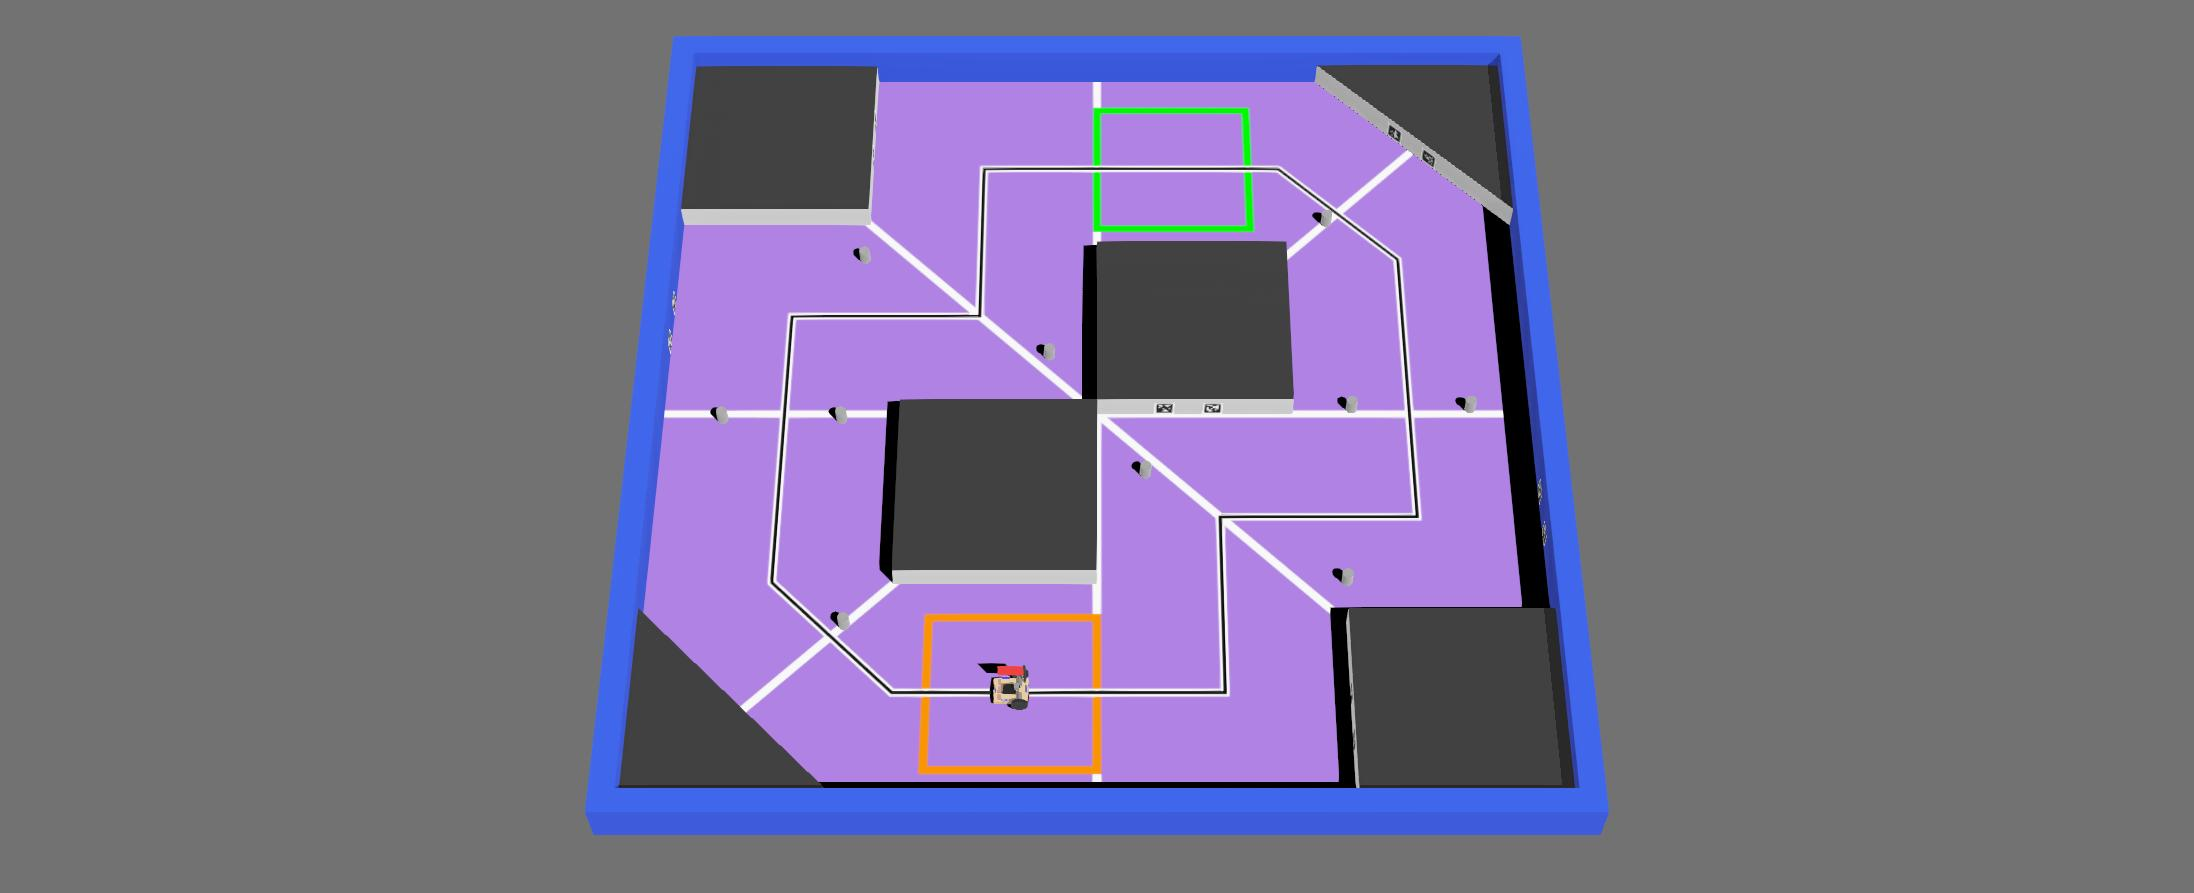
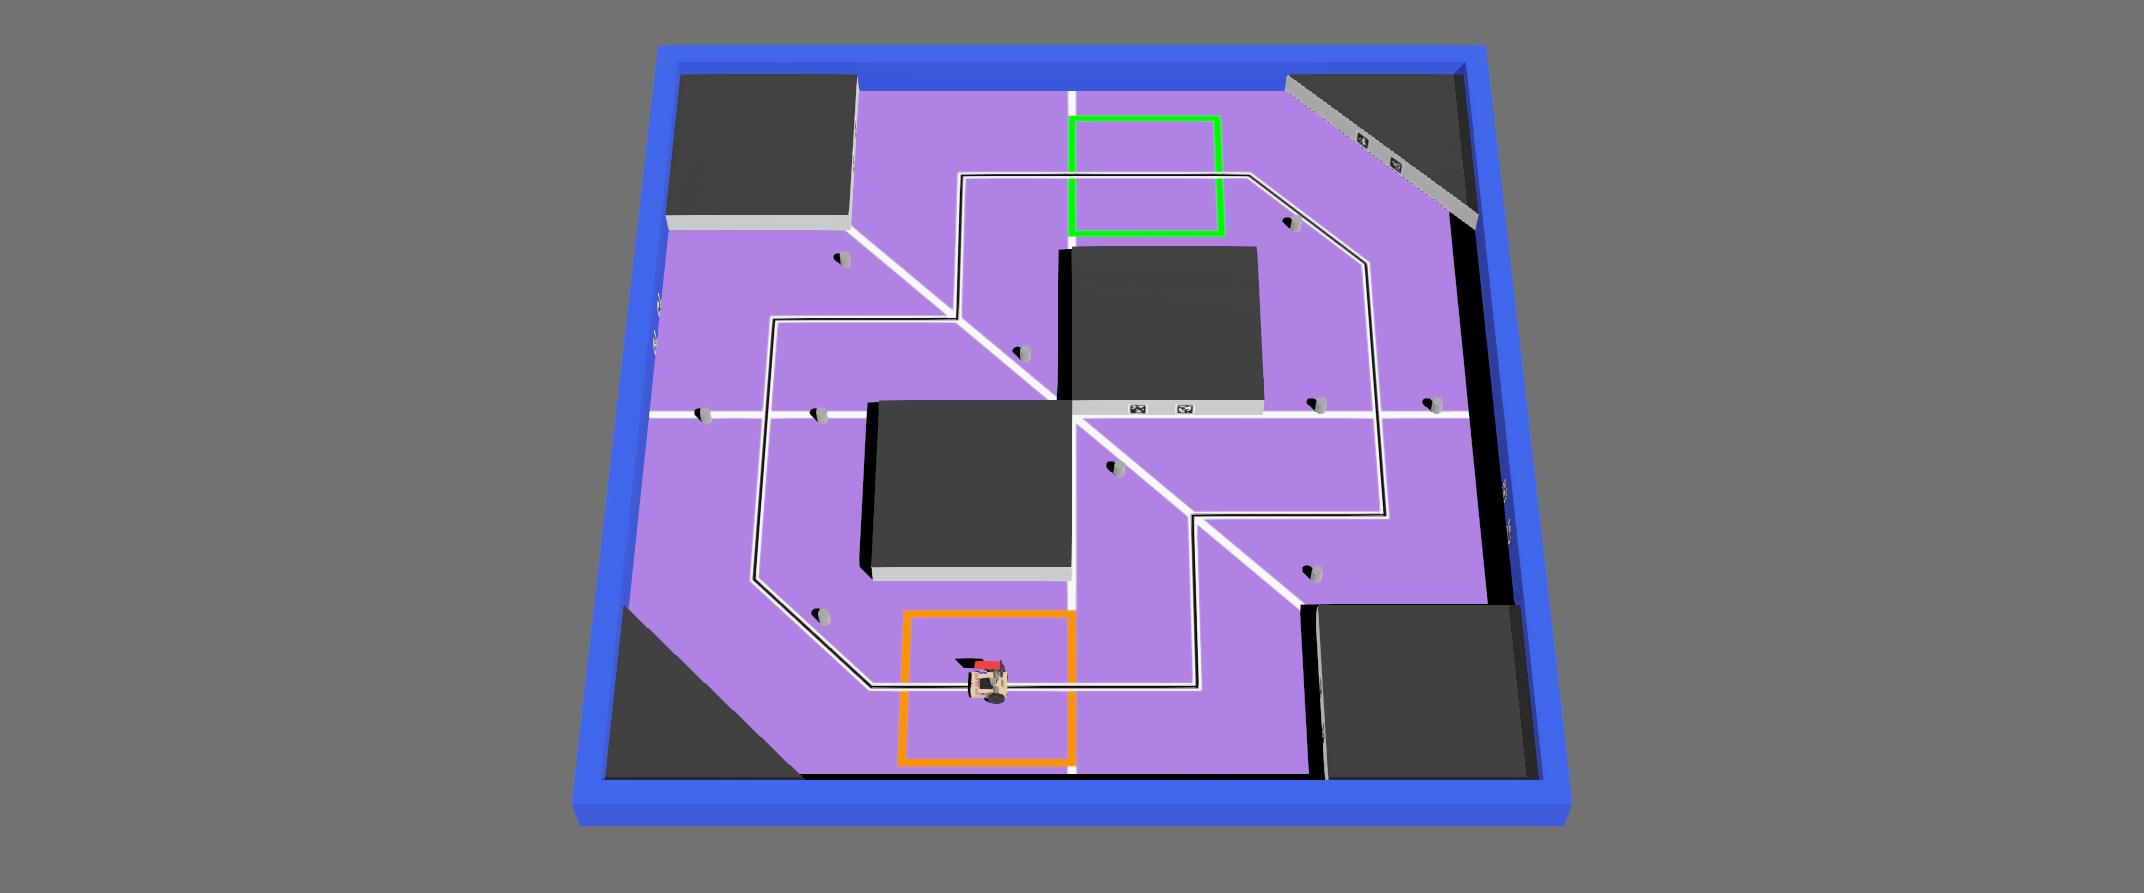
Add user guide images, update floor texture

diff --git a/assets/user_readme.md b/assets/user_readme.md
@@ -7,12 +7,13 @@ In order to use the simulator a few set-up steps need to be done.
 
 - setup
     - prerequisites
-        - python 3.9+ (https://www.python.org/downloads/)
+        - python 3.9+ (https://www.python.org/downloads/) ![python download site](images/python_download.png)
             - homebrew is fine on MacOS
             - apt is fine on Ubuntu
             - windows store is fine on Windows?
-        - Webots R2023b (https://cyberbotics.com/#download)
+        - Webots R2023b (https://cyberbotics.com/#download) ![webots download site](images/webots_download.png)
     - config script
+        - right click, open with python
 - where the code goes
     - zone_0 folder
     - must be called robot.py
@@ -27,7 +28,9 @@ In order to use the simulator a few set-up steps need to be done.
 - where the logs are
     - location
     - naming
-- improving performance
+- improving performance ![preferences menu](images/windows_preferences.png) ![reduce graphics](images/reduced_settings.png)
     - disable shadows
     - disable anti-aliasing
-- remember to sleep
+- common issues
+    - remember to sleep
+    - reopening the camera overlay ![camera overlay menu](images/camera_overlay.png)
